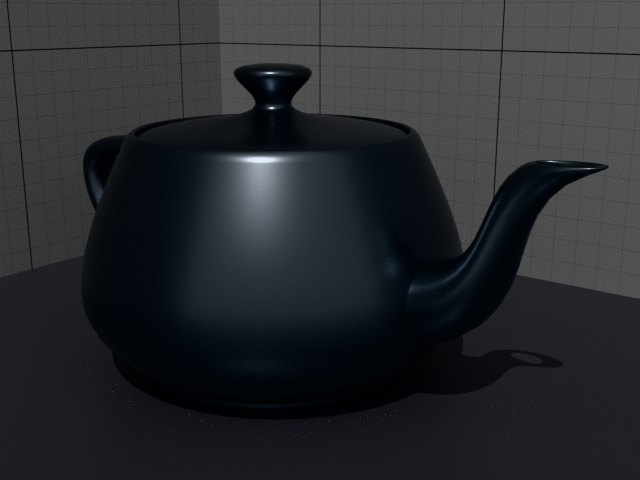
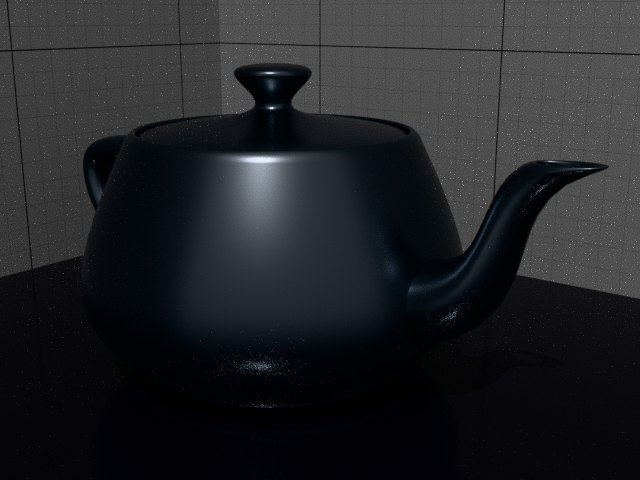
Material pictures: POM-C floor

diff --git a/src/viewer/preview.ts b/src/viewer/preview.ts
@@ -12,10 +12,10 @@ const BLANK: Look = { color: '#ffffff', roughness: 0.5, bump: 0, metalness: 0, t
 const WIDTH = 640;
 const HEIGHT = 480;
 /** Goes up when the scene changes: pictures kept in browsers then are of something else. */
-export const PREVIEW_SCENE = 5;
+export const PREVIEW_SCENE = 6;
 
 /**
- * A teapot wearing a material, on a dark grey plastic floor in a corner of measuring grid walls, in given light. `show` draws at
+ * A teapot wearing a material, on a POM-C floor in a corner of measuring grid walls, in given light. `show` draws at
  * once (three's own renderer) and, when nothing changes for `rest` ms, path traces on the same picture, on `canvas`;
  * `viewCanvas` always has it as the 3D view draws it. `thumbnail` traces a small picture for the list, when nothing is being shown. One renderer and one tracer do all of it.
  */
@@ -51,7 +51,7 @@ export class MaterialPreview {
     this.teapot.position.set(-12, 50, 9); // its bottom on the floor, its spout inside the picture
     this.teapot.castShadow = true;
     const standard = (id: string) => toLook(findMaterial({ materials: [] } as unknown as Doc, id)!);
-    const [floorLook, gridLook] = [standard('std-dark-grey'), standard('std-grid-metric')];
+    const [floorLook, gridLook] = [standard('std-pom-black'), standard('std-grid-metric')];
     const [floor, grid] = [renderMaterial(floorLook), renderMaterial(gridLook)];
     applyLook(this.inView.floor, floorLook);
     applyLook(this.inView.grid, gridLook);
